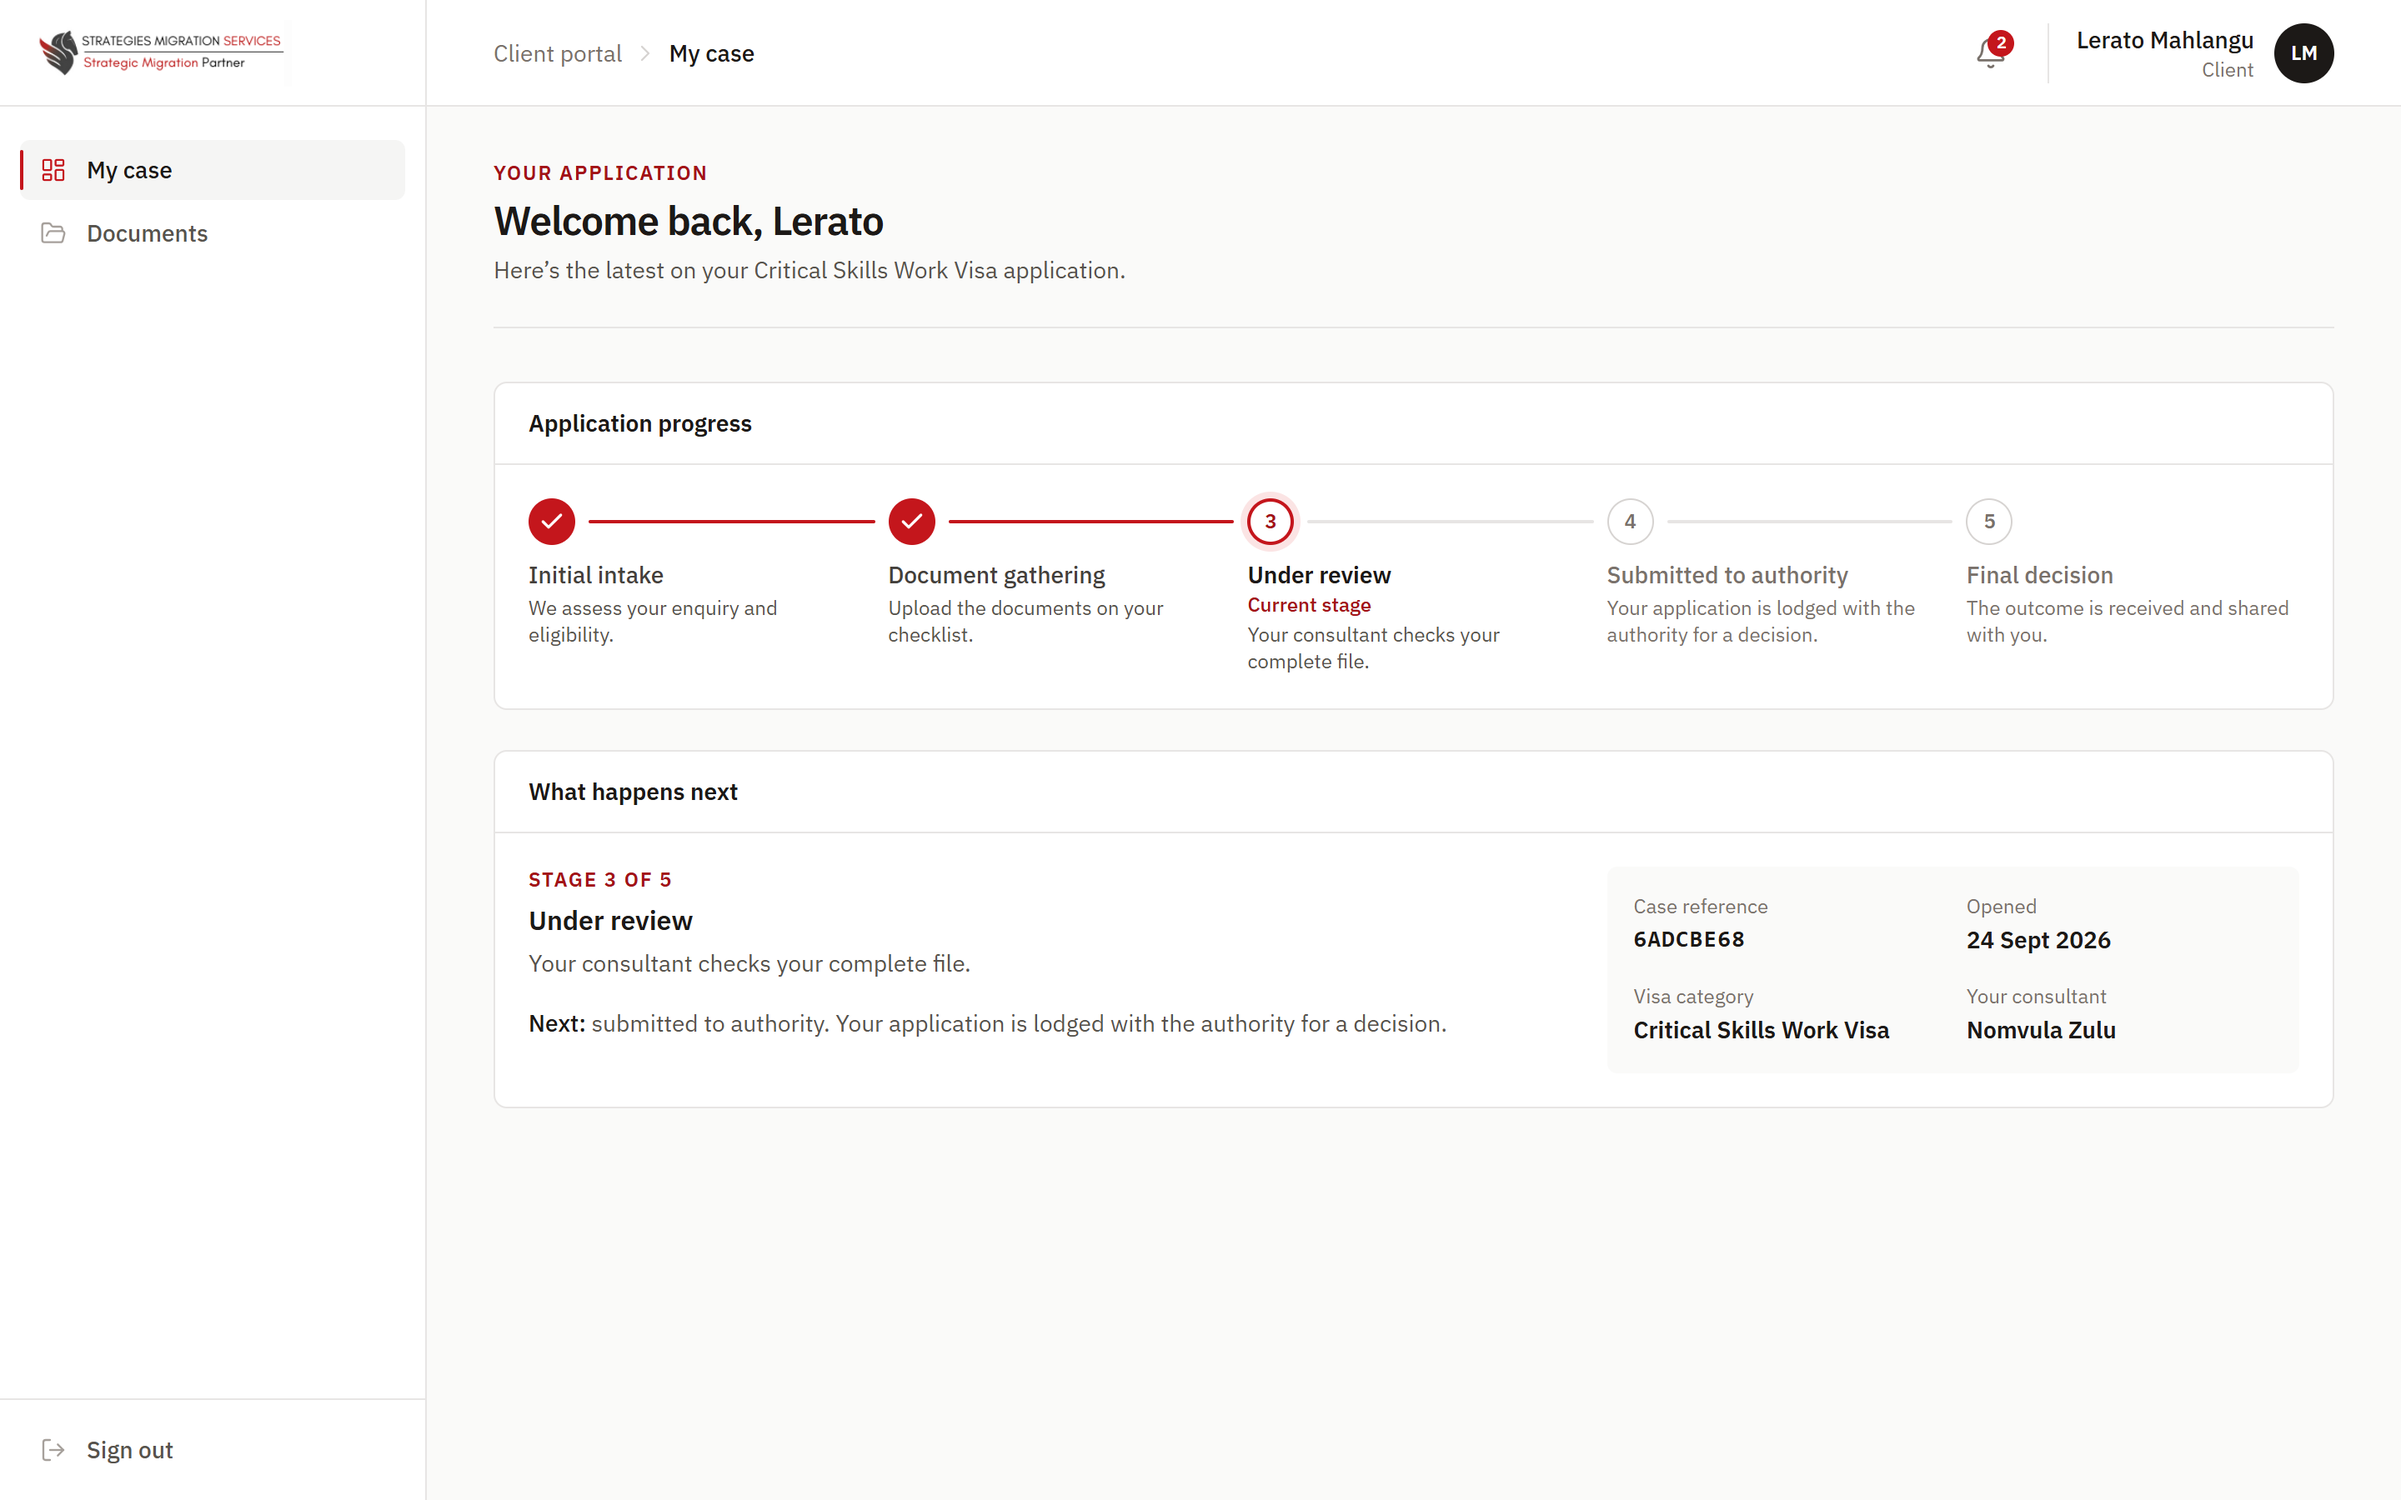
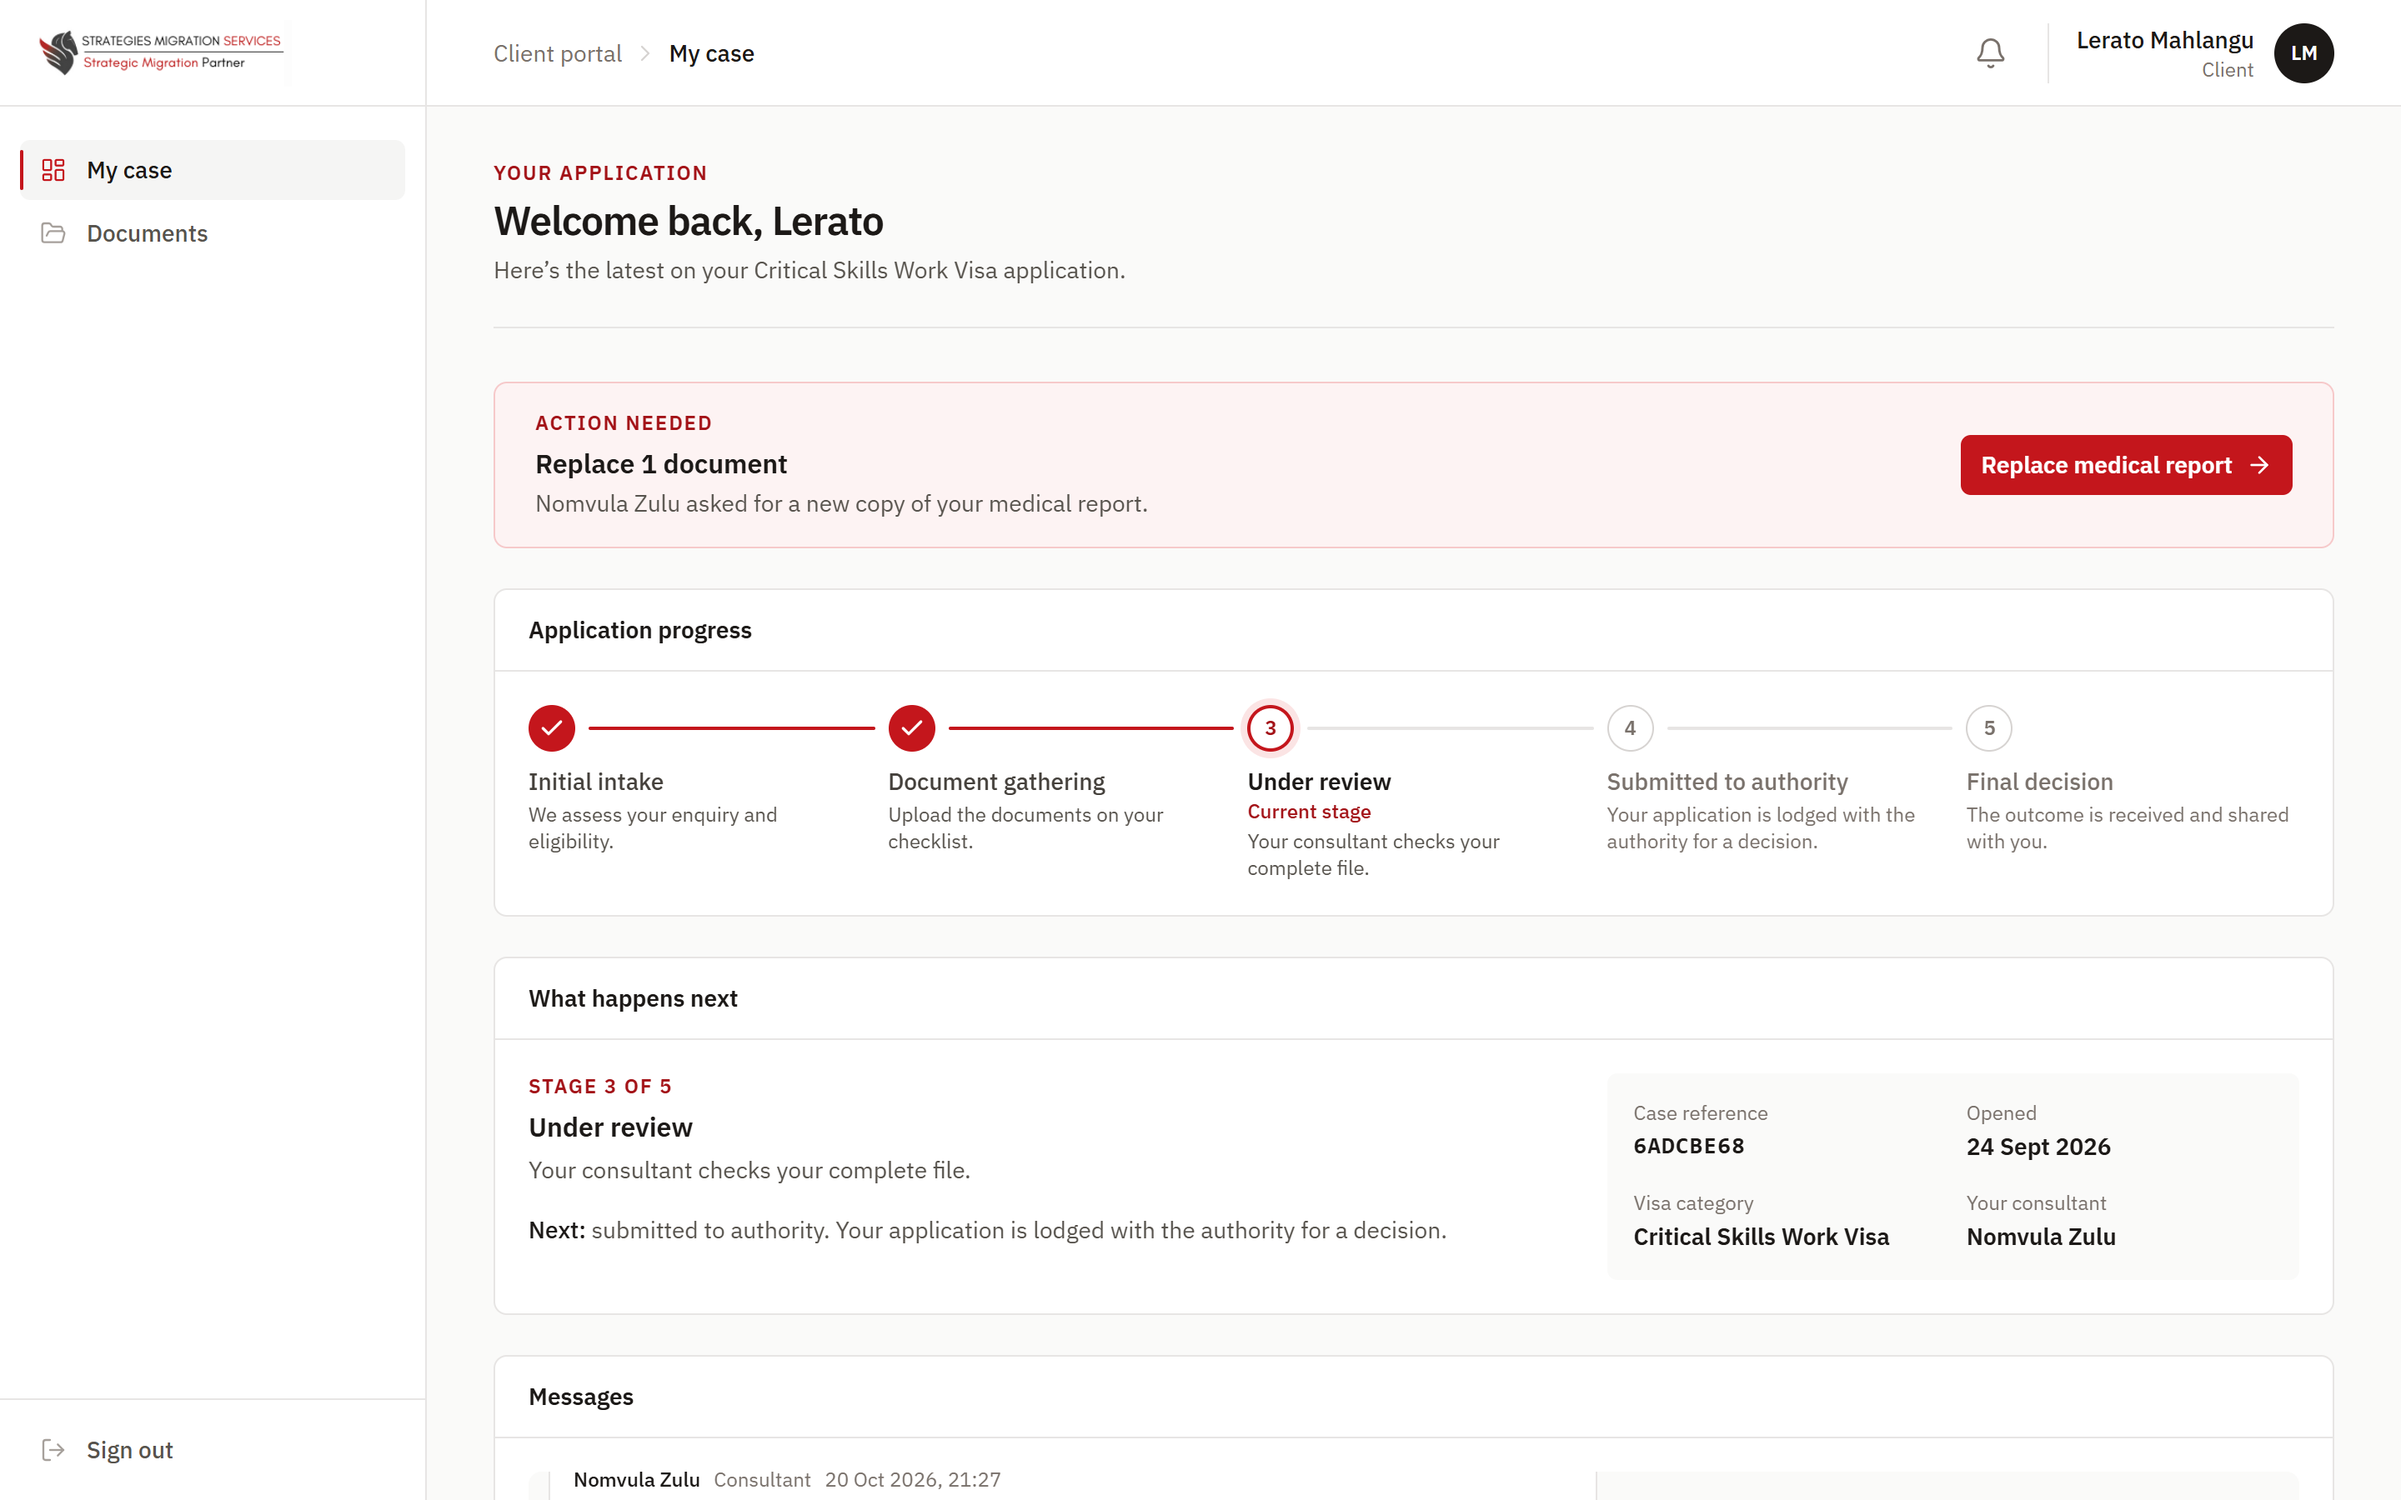
docs(web): add messaging screenshots and show the thread in the workspace diagram
Five screenshots retaken with the message thread in place (client-01, client-02, client-06, consultant-05, consultant-06). New: consultant-10 to 12 (thread, unread count before and after), client-07 to 09 (thread, phone, archived case), admin-11 (read only). ux-journey-web-workspaces drops the two hidden messages placeholders and draws the thread inside the case panel and the client dashboard. README tables updated.

diff --git a/docs/screenshots/README.md b/docs/screenshots/README.md
@@ -5,6 +5,7 @@ Screenshots of the web portal for the EXPO deck, the poster board and the [user 
 ## How they were taken
 
 - **Code:** `develop` at commit `98ff559` (web and API unchanged). The 24 screens touched by the UI polish pass were retaken on 22 Oct 2026 from `develop` `765d506` plus the polish commits on `feature/riaad-ui-polish`, the two polish commits on `feature/riaad-messaging-web` (without the message thread itself) and the Users page polish on `feature/riaad-admin-edit-user` (without Edit user). Retaken: `public-02-enquiry-errors-mobile`, `client-01` to `client-06`, `consultant-01` to `consultant-09` and `admin-03` to `admin-10`. The earlier versions are in the history of this folder.
+- **Messaging (22 Oct 2026):** `client-01`, `client-02`, `client-06`, `consultant-05` and `consultant-06` were retaken, and `consultant-10` to `consultant-12`, `client-07` to `client-09` and `admin-11` added, from `develop` `aff26b0` (the case message thread, PR #19, is in). The local database was migrated to the seven migrations then on `develop` and its demo messages were replaced with a made-up conversation (13 messages: one case with a back-and-forth, one with a waiting question, an archived case). Everything else was taken as described above, including the same renamed people. Mei Chen (mei.chen@example.com) is the client of the archived case.
 - **Build:** production build of `strategies-web` served by `vite preview`, so the development-only role switcher does not appear. `/api` is proxied to the API on `http://localhost:5151`.
 - **Data:** a local PostgreSQL database with the five migrations and the demo seed in [`database/seed`](../../database/seed). For the pictures only, three placeholder seed names were changed in that local database: "John Doe" became Lerato Mahlangu, "Consultant User" became Nomvula Zulu and "Riaad" became Pieter van Wyk (pieter.vanwyk@nexus.com). The seed files themselves are unchanged. All people, emails and files are made up.
 - **AI triage:** no Gemini key was set, so the new enquiry (Kagiso Molefe) shows the agent's fallback verdict, "Needs review". The seeded leads carry seeded verdicts.
@@ -42,12 +43,15 @@ User-guide sections refer to [USER_GUIDE.md](../USER_GUIDE.md). Each deck sugges
 
 | File | Shows | User guide | Deck / board |
 |---|---|---|---|
-| `client-01-dashboard.png` | My case: action needed, five-stage progress, next step | 3 Follow your case | Client journey (hero) |
+| `client-01-dashboard.png` | My case: action needed, five-stage progress, next step; the message thread starts below the fold | 3 Follow your case | Client journey (hero) |
 | `client-02-dashboard-full.png` | Same, whole page | 3 Follow your case | |
 | `client-03-documents.png` | Documents: rejected medical report with the consultant's note | 3 Replace a rejected document | Document loop |
 | `client-04-documents-full.png` | Same, whole page with all documents | 3 Replace a rejected document | |
 | `client-05-upload-new-copy.png` | A new copy chosen and ready to send (not sent) | 3 Replace a rejected document | Upload |
 | `client-06-dashboard-mobile.png` | My case on a phone, whole page | 3 On your phone | Responsive design |
+| `client-07-messages.png` | Message thread on My case: the consultant's questions and the client's replies, with the send box | 3 Message your consultant | Client journey, messaging |
+| `client-08-messages-mobile.png` | Same thread on a phone | 3 On your phone | Responsive design |
+| `client-09-message-archived.png` | Archived case: the thread stays readable, sending is refused ("This case is archived, so no new messages can be sent.") | 3 Message your consultant | Case lifecycle |
 
 ### Consultant (Nomvula Zulu, consultant@nexus.com)
 
@@ -62,6 +66,9 @@ User-guide sections refer to [USER_GUIDE.md](../USER_GUIDE.md). Each deck sugges
 | `consultant-07-reject-note-required.png` | Rejecting without a note is blocked | 4 Review documents, 6 | Validation |
 | `consultant-08-stage-change.png` | "Under review" chosen for Ayesha Patel's case | 4 Manage a case | State machine |
 | `consultant-09-stage-changed.png` | Case moved from Document gathering to Under review, with confirmation message | 4 Manage a case | State machine |
+| `consultant-10-case-messages.png` | Case panel scrolled to the message thread: the newest client reply is tagged New | 4 Message the client | Messaging |
+| `consultant-11-unread-before.png` | Overview with the bell showing 2 unread messages | 4 Message the client | Notifications |
+| `consultant-12-unread-after.png` | Same page after the thread was opened: the count is 1 (the other unread message is on another case) | 4 Message the client | Notifications |
 
 ### Admin (System Admin, admin@nexus.com)
 
@@ -77,6 +84,7 @@ User-guide sections refer to [USER_GUIDE.md](../USER_GUIDE.md). Each deck sugges
 | `admin-08-cases-export.png` | All cases with consultant column and Export CSV | 5 Assign a consultant, Leads and export | Export |
 | `admin-09-export-done.png` | CSV export finished | 5 Leads and export | Export |
 | `admin-10-audit-log.png` | Audit log: who changed what, and when | 5 Read the audit log | Audit trail / POPIA |
+| `admin-11-case-messages-read-only.png` | The same thread in an administrator's case panel: readable, no send box, with a note saying why | 5 Cases | Role-based access |
 
 ## Not captured
 

diff --git a/docs/diagrams/README.md b/docs/diagrams/README.md
@@ -20,7 +20,7 @@ Class diagrams use UML notation: `+name: Type = default` for attributes, `+Opera
 | Diagram | What it shows | Report section | Verified against |
 |---|---|---|---|
 | [ux-journey-web](ux-journey-web.mmd) | Web portal public routes, sign-in and the redirect into each role workspace | 9.1.7 User Experience Journey Map | develop 98ff559 |
-| [ux-journey-web-workspaces](ux-journey-web-workspaces.mmd) | Admin, consultant and client screens, panels and hidden placeholder routes | 9.1.7 User Experience Journey Map | develop 98ff559 |
+| [ux-journey-web-workspaces](ux-journey-web-workspaces.mmd) | Admin, consultant and client screens, panels and hidden placeholder routes | 9.1.7 User Experience Journey Map | develop aff26b0 |
 | [ux-journey-mobile](ux-journey-mobile.mmd) | Android app screens (client only): restore, login, three tabs, sign out | 9.1.7 User Experience Journey Map | develop 98ff559 |
 | [domain-class](domain-class.mmd) | Business concepts, key attributes and multiplicities, no methods | 9.1.9 Domain modelling | develop 98ff559 |
 | [design-class](design-class.mmd) | Design class 1 of 8: User, Lead, Case, VisaCategory with typed attributes, PK/FK, multiplicities | 9.1.9 Design artifacts | develop 98ff559 |
